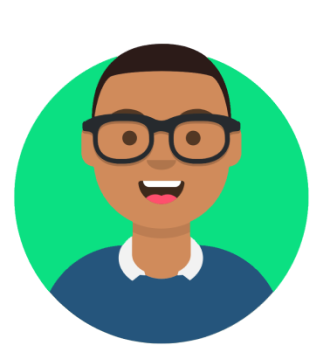
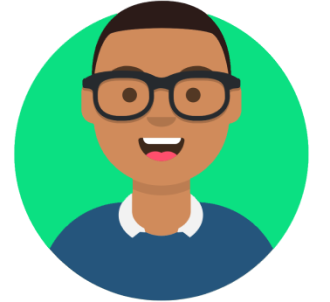
refatoração dos respaçamentos e imagens

diff --git a/index.html b/index.html
@@ -22,7 +22,7 @@
         </div>
         <!--Menu Hamburguer-->
         <nav id="items" style="display: none;">
-            <ul class="formataNav">
+            <ul class="formataNav" onclick="clickMenu()">
                 <li class="formataItem"><a class="formataLink" href="">Início</a></li>
                 <li class="formataItem"><a class="formataLink" href="#sobreMim">Sobre mim</a></li>
                 <li class="formataItem"><a class="formataLink" href="#formacao">Formação</a></li>
@@ -37,20 +37,20 @@
 
             <div class="container containerPrincipal">
                 <div class="perfilPrincipal">
-                    <img src="imagens/kevin-2.png" alt="imagemPerfilKevin" height="188">
+                    <img src="imagens/kevin.png" alt="imagemPerfilKevin" height="188">
                 </div>
                 <div>
                     <div class="segundoBloco">
                         <h2 class="textoPrincipal">
                             Olá! <br>
-                            Eu sou <span style="color: var(--azulPrincipal);">Kevin</span>,<br>
+                            Eu sou<br> <span style="color: var(--azulPrincipal);">Kevin</span>,<br>
                             <!--Usei span para aplicar a cor apenas ao meu nome-->
                             Programador<br>Web e Mobile
                         </h2>
-                        <!--
+                        
                         <button class="botaoPrincipal borderRadiusPadrao">
-                            <a href="#contato" style="color: var(--pretoPrincipal); text-decoration: none;font-size: 20px;">Entre em Contato</a>
-                        </button>-->
+                            <a href="#contato" style="color: var(--pretoPrincipal); text-decoration: none;">Entrar em Contato</a>
+                        </button>
                     </div>
                 </div>
     
@@ -66,7 +66,7 @@
             </a>
             <!--Área da Imagem-->
             <div class="areaPerfil">
-                <img src="imagens/kevin-2.png" alt="imagem Perfil Kevin" height="200">
+                <img src="imagens/kevin.png" alt="imagem Perfil Kevin" height="200">
             </div>
     
             <div class="textoSobreMim">
@@ -148,7 +148,7 @@
                 -->
     
     
-        <section class="containerFormacao">
+        <section class="containerFormacao" id="formacao">
             <!--Subtitulo-->
             <a name="#formacao">
                 <h2 class="subtitulo">Formação</h2>
@@ -159,12 +159,15 @@
                     <img src="./imagens/img01-Card.png" alt="Card 01">
                     <img src="./imagens/img02-Card.png" alt="Card 02">
                     <img src="./imagens/img03-Card.png" alt="Card 03">
+                    
+
+                    
     
             </section>
         </section>
     
         <section class="areaLinguagens">
-            <h2 class="subtituloSemBg">Trabalho com as Linguagens</h2>
+            <h2 class="subtituloSemBg">Possuo conhecimento nestas linguagens</h2>
     
             <div class="linguagensLinha">
                 <!--HTML-->
@@ -200,7 +203,7 @@
             <!--Subtitulo-->
             <a name="#portifolio"><h2 class="subtitulo">Portifólio</h2></a><br>
             <!--Projeto 1-->
-            <h2 class="nomeProjeto" style="margin-top: 35px;">Site Finans</h2><br>
+            <h2 class="nomeProjeto">Site Finans</h2><br>
             <div class="blocoProjeto">
                     <img src="imagens/img_projeto-1-finans.png" alt="projeto 1 - site finans" style="max-width: 100%;">
                     <div class="blocoDescricao-1">
@@ -236,17 +239,12 @@
                     </div> 
                 
             </div>
-    
-            
-            
-            
-    
         </section>
     
         <!--CONTATO-->
         <section id="contato" class="containerContato">
             <!--Subtitulo-->
-            <a name="#contato"><h2 class="subtitulo">Contato</h2></a><br>
+            <a name="#contato"><h2 class="subtitulo">Contato</h2></a>
             
                <div class="blocoContato">
                 <!--Formulário para contato-->

diff --git a/estilo/style.css b/estilo/style.css
@@ -27,6 +27,10 @@ main{
     padding: 0 16px;
 }
 
+section{
+    margin-bottom: 70px;
+}
+
 /*Formatações Padrão*/
 .borderRadiusPadrao{
     border-radius: 15px;/*Arrendondar botões*/
@@ -41,6 +45,7 @@ main{
     text-align: center;
     border-radius: 15px 0 ;/*Arrendondar*/
     font-size: 1.2rem;
+    margin-bottom: 16px;
 
 }
 
@@ -48,6 +53,7 @@ main{
     font-weight:normal;
     font-size: 1.2rem;
     color: var(--verdePrincipal);
+    margin-bottom: 16px;
     
     
 }
@@ -134,6 +140,7 @@ i#burguer{
     flex-direction: column;
     justify-content: center;
     align-items: center;
+    height: 100vh;
     
 }
 
@@ -142,7 +149,8 @@ i#burguer{
 }
 
 .segundoBloco{
-    padding-top: 15px;
+    padding-top: 16px;
+    text-align: center;
 }
 
 .textoPrincipal{
@@ -153,23 +161,24 @@ i#burguer{
 
 /*Botões*/
 .botaoPrincipal{
-    width: 150px;
-    height: 63px;
+    width: 100px;
+    padding: 5px;
     background-color: var(--azulPrincipal);
     border: none; 
-    font-size: 0.5rem; 
+    font-size: 1rem; 
+    margin-top: 5px;
+    
 }
 
  /*PÁGINA SOBRE MIM*/
 
- .containerSobre{
-    margin-top: 16px;
+.containerSobre{
+   
 
  }
 
- .areaPerfil{
+.areaPerfil{
     text-align: center;
-
     margin: 16px 0;
  }
 
@@ -182,13 +191,9 @@ i#burguer{
 
 
 .containerFormacao{
-    margin: 16px 0;
 }
 
-.containerFormacao h2{
-    margin-bottom: 16px;
-    
-}
+
 /*EFEITO CARROUSEL*/
 
 .gallery{
@@ -270,7 +275,7 @@ i#burguer{
 /*PORTIFÓLIO*/
 
 .containerPortifolio{
-    margin:25px 0;
+    
 }
 
 .nomeProjeto{
